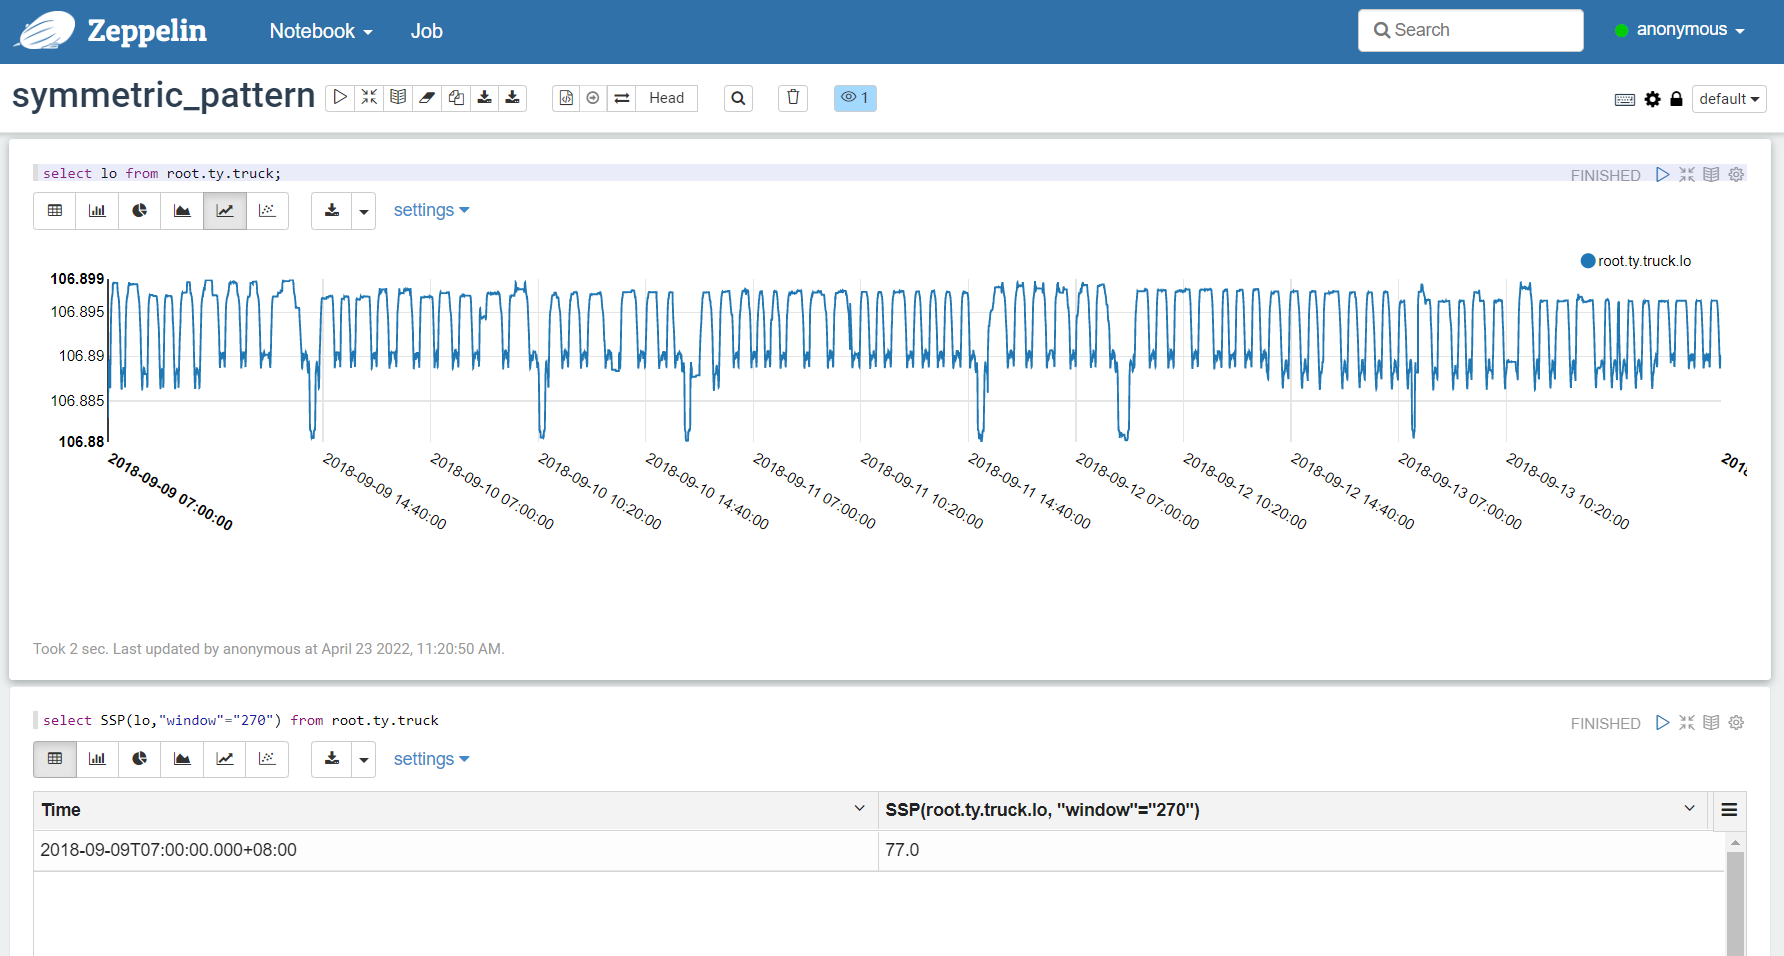
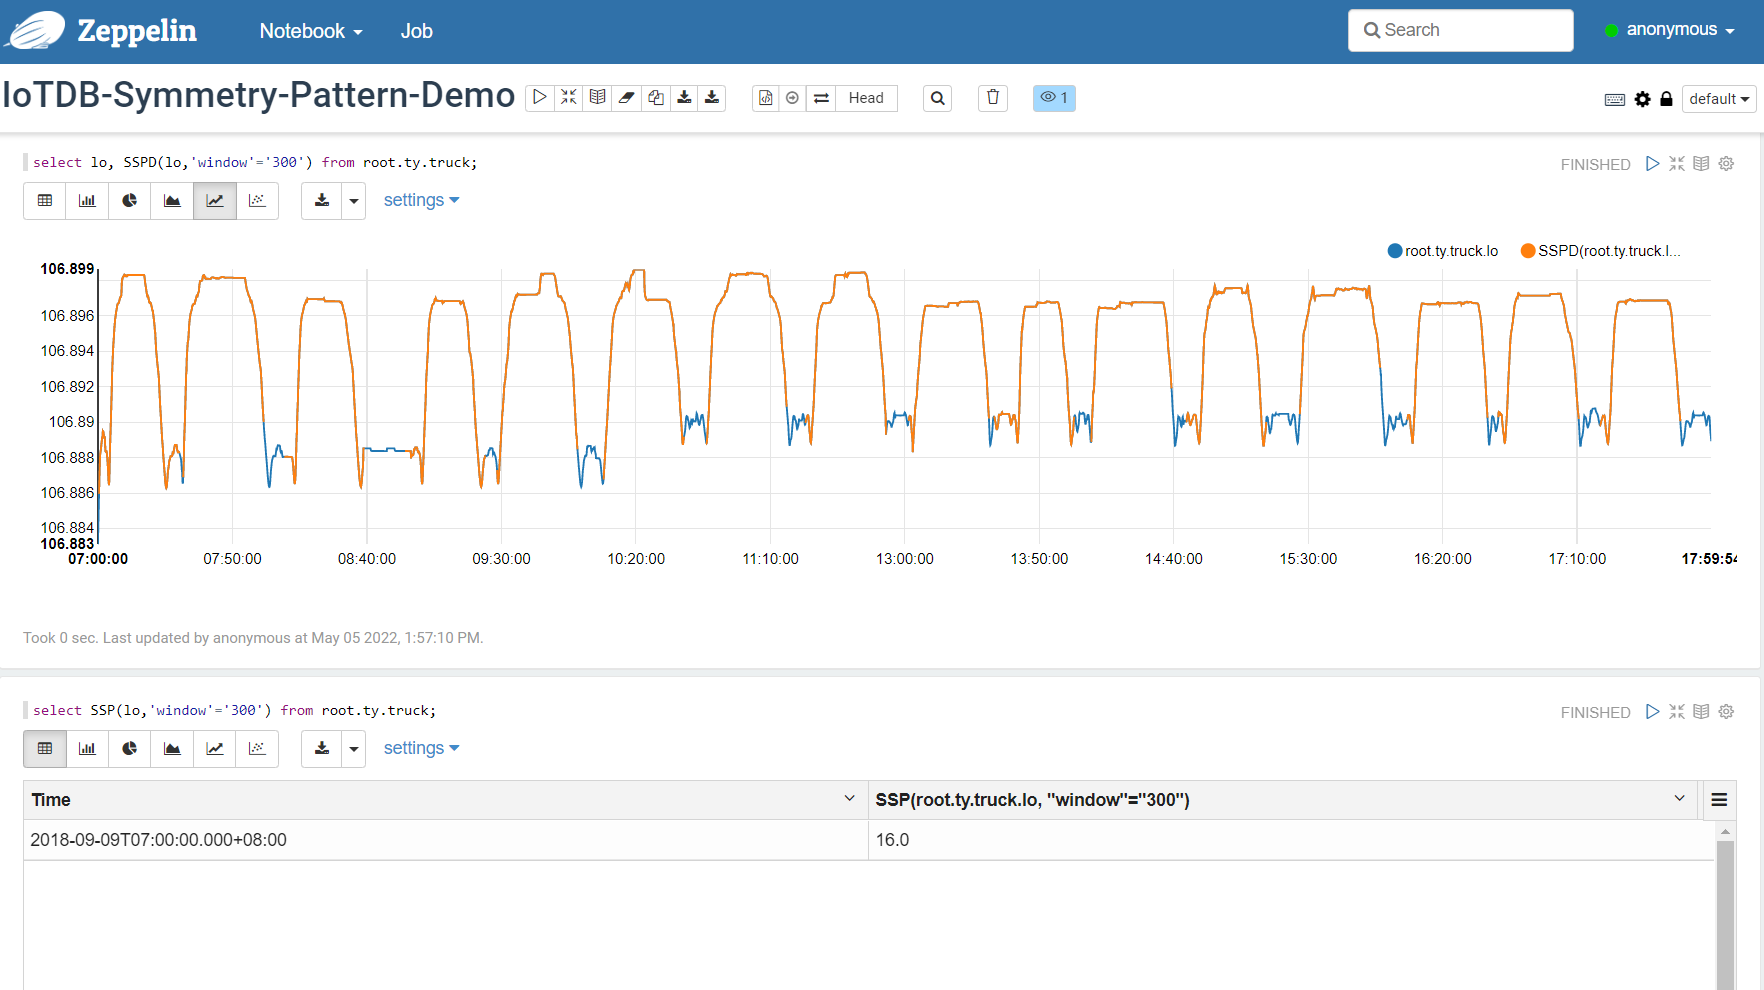
modify system

diff --git a/data/chap05.tex b/data/chap05.tex
@@ -390,7 +390,7 @@ manhattan算法会在匹配点计算时产生偏差。
 当对称度阈值过小时，对称模式无法挖掘。
 GPS轨迹没有明确的对称中心，其数据点也由于车辆行驶过程的随机性和采样
 传感器的不精确而具有随机误差，同时，对称子模式的长度也不固定。
-为保证挖掘效果，本文采用车辆单趟运输轨迹的数据点采样个数最小值270作为长度约束挖掘对称模式。
+为保证挖掘效果，本文采用车辆单趟运输轨迹的数据点采样个数最小值300作为长度约束挖掘对称模式。
 由图~\ref{fig:truck_1}和~\ref{fig:truck_2}可知，symmetry算法的偏差率在所有算法中
 处于最低水平，表明其挖掘出的对称模式数量和
 真实结果最为接近，不仅远超过基于欧氏距离和曼哈顿距离的对称模式挖掘算法，也优于
@@ -489,7 +489,7 @@ DTW和FastDTW方法甚至没有挖掘出一个对称模式。相比之下，symm
 的相对性能，影响算法性能的因素主要是子模式长度约束的大小。
 基于DTW距离的算法在运输车GPS数据集上效率高于基于FastDTW距离的算法，
 而在挖掘机工况数据集上效率低于基于FastDTW距离的算法，其原因在于
-前者对称子模式的平均点数少，实验设定长度约束参数为270。而后者对称子模式
+前者对称子模式的平均点数少，实验设定长度约束参数为300。而后者对称子模式
 的平均点数多，实验设定长度约束参数为800。FastDTW对DTW进行了剪枝和
 抽象优化\cite{DBLP:journals/ida/SalvadorC07}，其理论渐进时间复杂度为$O\left(w\right)$但实际却无法达到。
 因而，在挖掘的对称子模式较长时，使用分段对称模式挖掘算法在效率上会优于

diff --git a/data/chap06.tex b/data/chap06.tex
@@ -172,7 +172,7 @@ Apache Zepplin是一个基于网页的交互式数据分析系统。
 图中上半部分是在运输车轨迹GPS经度
 数据集随时间的变化情况。利用Zepplin自带的折线图
 用户可以方便地观察出运输车轨迹数据集中的时间序列具有
-77个分段对称模式。
+16个分段对称模式。
 图中下半部分是在运输车轨迹数据集上挖掘分段对称模式，
 在Zepplin的输入框中直接输入Select语句
 就可以像IoTDB-Client命令行一样执行查询，
